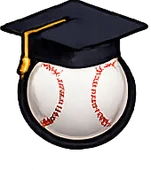
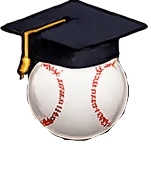
chore: Update cleaned-up quiz_master_icon image
- Replace quiz_master_icon.webp with cleaned-up version
- Bump cache version to v961 so the new icon is re-cached

diff --git a/index.html b/index.html
@@ -1,4 +1,4 @@
-<!doctype html><html lang="ja"><head><meta charset="utf-8"><meta name="viewport" content="width=device-width,initial-scale=1,viewport-fit=cover"><title>少年野球シミュレーター「野球やろうぜ！」</title><link rel="stylesheet" href="assets/styles.css?v=960">  <script>(function(){try{var p=new URLSearchParams(location.search||"");var issue=(p.get("issue")||p.get("id_issue")||"").toLowerCase();var invite=p.get("invite_key")||p.get("inviteIssueKey")||p.get("issue_invite")||"";var admin=p.get("admin_key")||p.get("adminIssueKey")||p.get("issue_admin")||"";function ck(n,v){try{document.cookie=encodeURIComponent(n)+"="+encodeURIComponent(v||"")+"; Max-Age="+(90*24*60*60)+"; Path=/; SameSite=Lax"+(location.protocol==="https:"?"; Secure":"");}catch(e){}}function ls(n,v){try{localStorage.setItem(n,v||"");}catch(e){}}var href="manifest.webmanifest";if(((issue==="admin")&&admin)||(!issue&&admin)){ck("baseballPendingAdminIssueUrl",admin);ck("baseballPendingIssueType","admin");ls("baseballPendingAdminIssueUrl",admin);ls("baseballPendingIssueType","admin");href="api/issue_manifest.php?openExternalBrowser=1&issue=admin&admin_key="+encodeURIComponent(admin);}else if(((issue==="invite")&&invite)||(!issue&&invite)){ck("baseballPendingInviteIssueUrl",invite);ck("baseballPendingIssueType","invite");ls("baseballPendingInviteIssueUrl",invite);ls("baseballPendingIssueType","invite");href="api/issue_manifest.php?openExternalBrowser=1&issue=invite&invite_key="+encodeURIComponent(invite);}document.write('<link rel="manifest" href="'+href.replace(/"/g,"%22")+'">');}catch(e){document.write('<link rel="manifest" href="manifest.webmanifest">');}})();</script>
+<!doctype html><html lang="ja"><head><meta charset="utf-8"><meta name="viewport" content="width=device-width,initial-scale=1,viewport-fit=cover"><title>少年野球シミュレーター「野球やろうぜ！」</title><link rel="stylesheet" href="assets/styles.css?v=961">  <script>(function(){try{var p=new URLSearchParams(location.search||"");var issue=(p.get("issue")||p.get("id_issue")||"").toLowerCase();var invite=p.get("invite_key")||p.get("inviteIssueKey")||p.get("issue_invite")||"";var admin=p.get("admin_key")||p.get("adminIssueKey")||p.get("issue_admin")||"";function ck(n,v){try{document.cookie=encodeURIComponent(n)+"="+encodeURIComponent(v||"")+"; Max-Age="+(90*24*60*60)+"; Path=/; SameSite=Lax"+(location.protocol==="https:"?"; Secure":"");}catch(e){}}function ls(n,v){try{localStorage.setItem(n,v||"");}catch(e){}}var href="manifest.webmanifest";if(((issue==="admin")&&admin)||(!issue&&admin)){ck("baseballPendingAdminIssueUrl",admin);ck("baseballPendingIssueType","admin");ls("baseballPendingAdminIssueUrl",admin);ls("baseballPendingIssueType","admin");href="api/issue_manifest.php?openExternalBrowser=1&issue=admin&admin_key="+encodeURIComponent(admin);}else if(((issue==="invite")&&invite)||(!issue&&invite)){ck("baseballPendingInviteIssueUrl",invite);ck("baseballPendingIssueType","invite");ls("baseballPendingInviteIssueUrl",invite);ls("baseballPendingIssueType","invite");href="api/issue_manifest.php?openExternalBrowser=1&issue=invite&invite_key="+encodeURIComponent(invite);}document.write('<link rel="manifest" href="'+href.replace(/"/g,"%22")+'">');}catch(e){document.write('<link rel="manifest" href="manifest.webmanifest">');}})();</script>
   <link rel="apple-touch-icon" href="assets/icons/apple-touch-icon.png">
   <meta name="theme-color" content="#0046b8">
   <meta name="app-version" content="v904-production">
@@ -514,7 +514,7 @@
 <div id="timeProgressWrap" class="time-progress-wrap" aria-live="polite">
   <div class="time-progress-track"><div id="timeProgressBar" class="time-progress-bar"></div></div>
   <div id="timeProgressLabel" class="time-progress-label">制限時間なし</div>
-</div></div><div class="question-card"><div class="q-meta"><span id="qType"></span><span id="qId"></span><span id="qTheme"></span><span id="qStage"></span><span id="qHolder"></span><button id="interruptGameBtn" class="game-interrupt-btn qmeta-interrupt-btn" type="button">ゲームを中断する</button></div><h2 id="qTitle"></h2><p id="qSituation"></p><p id="qPrompt"></p><div id="choices" class="choices"></div></div></div></section><section id="screen-result" class="screen"><div class="result-card"><h2>試合終了！</h2><div id="resultScore" class="result-score"></div><div id="scoreSaveNotice" class="score-save-notice" aria-live="polite"></div><div id="rank" class="rank"></div><div id="breakdown"></div><div id="answerLog" class="answer-log"></div><div class="result-actions"><button id="retryBtn" class="primary">もう一回</button><button id="resultMyPageBtn" class="secondary" type="button">マイページで成績を見る</button></div></div></section></main><script src="assets/quiz_master_questions.js?v=960"></script><script src="assets/app.js?v=960"></script><script>
+</div></div><div class="question-card"><div class="q-meta"><span id="qType"></span><span id="qId"></span><span id="qTheme"></span><span id="qStage"></span><span id="qHolder"></span><button id="interruptGameBtn" class="game-interrupt-btn qmeta-interrupt-btn" type="button">ゲームを中断する</button></div><h2 id="qTitle"></h2><p id="qSituation"></p><p id="qPrompt"></p><div id="choices" class="choices"></div></div></div></section><section id="screen-result" class="screen"><div class="result-card"><h2>試合終了！</h2><div id="resultScore" class="result-score"></div><div id="scoreSaveNotice" class="score-save-notice" aria-live="polite"></div><div id="rank" class="rank"></div><div id="breakdown"></div><div id="answerLog" class="answer-log"></div><div class="result-actions"><button id="retryBtn" class="primary">もう一回</button><button id="resultMyPageBtn" class="secondary" type="button">マイページで成績を見る</button></div></div></section></main><script src="assets/quiz_master_questions.js?v=961"></script><script src="assets/app.js?v=961"></script><script>
 window.YAKYU_APP_VERSION = 'v904-production';
 window.YAKYU_CACHE_VERSION = 'yakyu-yarouze-v904-production';
 

diff --git a/service-worker.js b/service-worker.js
@@ -1,5 +1,5 @@
 /* PWA Service Worker for 野球やろうぜ！ */
-const CACHE_VERSION = 'yakyu-yarouze-v960-production';
+const CACHE_VERSION = 'yakyu-yarouze-v961-production';
 const STATIC_CACHE = `${CACHE_VERSION}-static`;
 const RUNTIME_CACHE = `${CACHE_VERSION}-runtime`;
 
@@ -11,8 +11,8 @@ const STATIC_ASSETS = [
   './manifest.webmanifest',
   './api/issue_manifest.php',
   './version.json',
-  './assets/styles.css?v=960',
-  './assets/app.js?v=960',
+  './assets/styles.css?v=961',
+  './assets/app.js?v=961',
   './assets/top_background.webp',
   './assets/top_title_mobile.webp',
   './assets/top_title_pc.webp',
@@ -20,7 +20,7 @@ const STATIC_ASSETS = [
   './assets/quiz_master_logo.webp',
   './assets/quiz_master_icon.webp',
   './assets/quiz_master_chair.webp',
-  './assets/quiz_master_questions.js?v=960',
+  './assets/quiz_master_questions.js?v=961',
   './data/quiz_master_questions.json',
   './data/quiz_master_titles.json',
   './assets/icons/icon-192.png',
